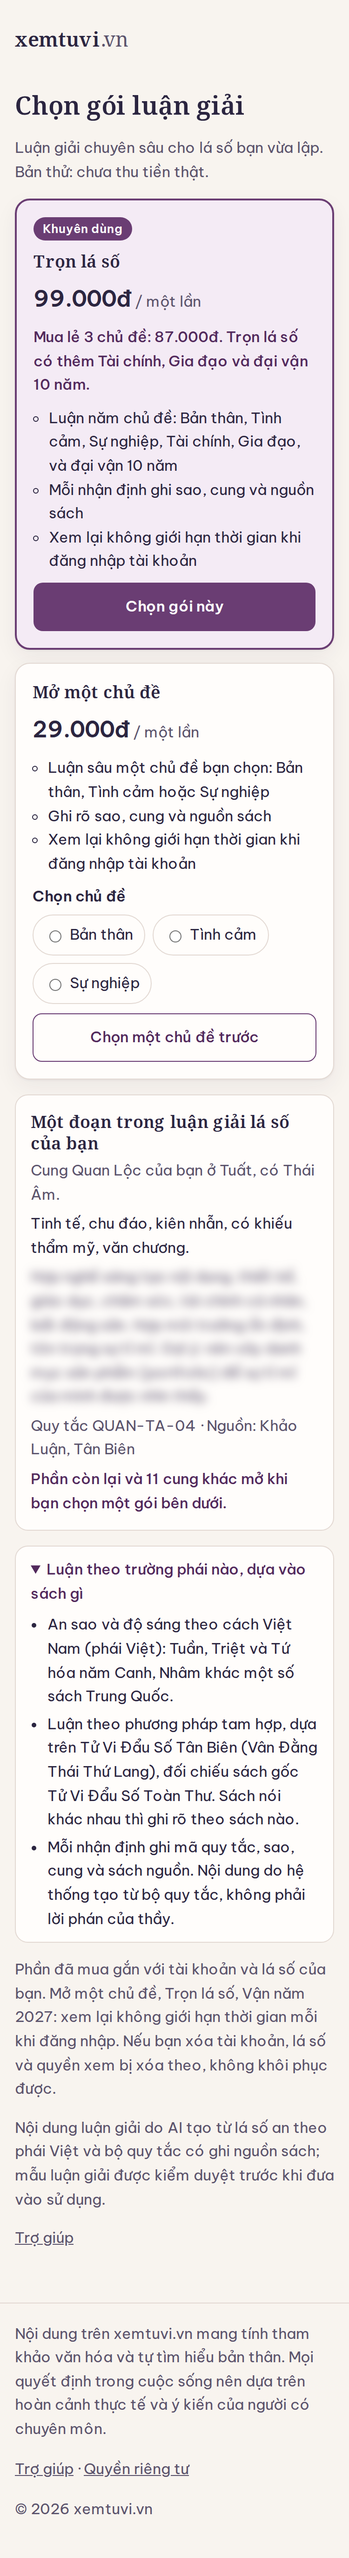
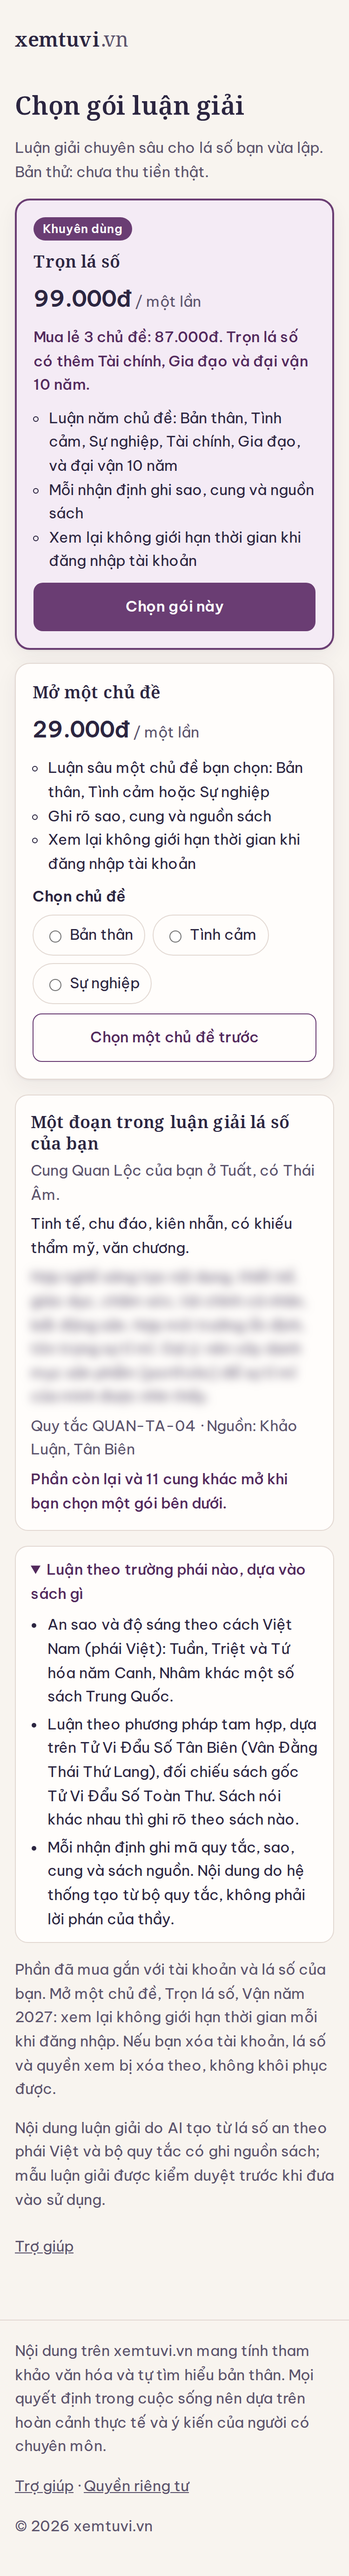
F3: link Trợ giúp ở /chon-goi đủ 44px, tiêu đề nhóm sao và nguồn >=14px

diff --git a/src/app/globals.css b/src/app/globals.css
@@ -263,6 +263,8 @@ a { color: inherit; }
   .lk-nho { min-height: 44px; display: inline-flex; align-items: center; }
   main :is(label, legend, em, dt, dd, span, li, p):not(.ban *):not(.nhan-chinh) { font-size: max(1em, 1rem); }
   footer a, header a { display: inline-flex; align-items: center; min-height: 44px; }
+  .tt-ghi-chu a { display: inline-flex; align-items: center; min-height: 44px; }
+  .nhom-sao h4, main footer { font-size: 0.875rem; }
   .chan-trang, .chan-trang p, .chan-trang a, .nut-lien-ket, .nut-phu, .nut-chinh { font-size: 1rem; }
 }
 
